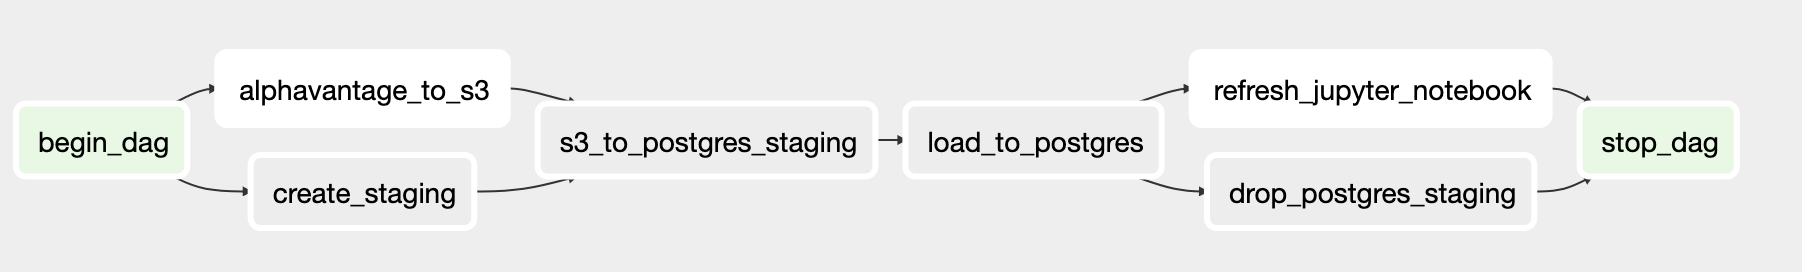
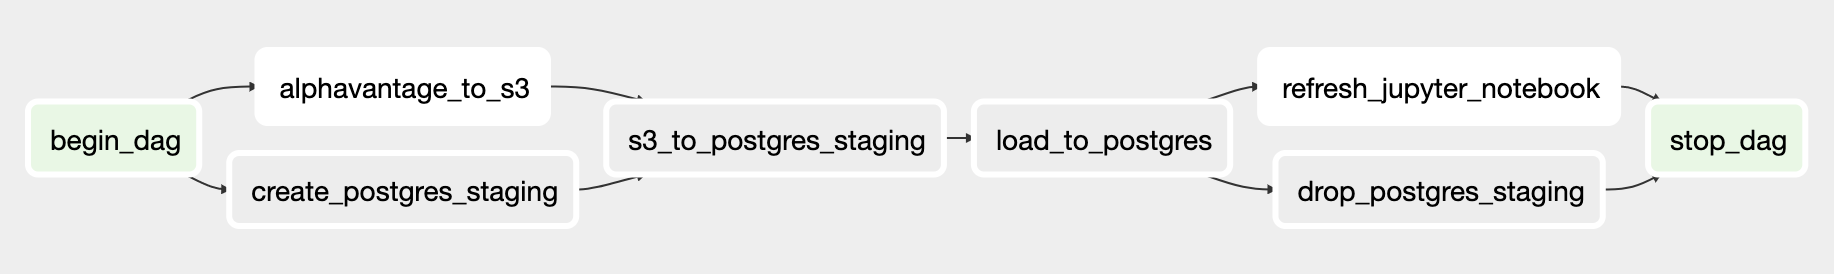
update name of create staging step

diff --git a/dags/fx_tracker/daily_exchange_rates.py b/dags/fx_tracker/daily_exchange_rates.py
@@ -55,7 +55,7 @@ alphavantage_to_s3 = AlphavantageToS3Operator(
 
 # create empty staging table to load data into
 create_postgres_staging = PostgresOperator(
-    task_id='create_staging',
+    task_id='create_postgres_staging',
     sql='sql/staging/daily_exchange_rates.table.sql',
     dag=dag
 )

diff --git a/README.md b/README.md
@@ -7,7 +7,7 @@ A pipeline for exchange rate data built with Airflow, S3, Postgres, Jupyter and 
 
 This is a sandbox project to set up an environment with Airflow and Docker in order to schedule and monitor pipelines.
 
-To demonstrate the environment, it is used to fetch daily exchange rate data from an external API (Alpha Vantage), load into a S3 bucket, load into Postgres including a staging step, then refresh a (currently dummy) Jupyter notebook
+To demonstrate the environment, it is used to fetch daily exchange rate data from an external API (Alpha Vantage), load into S3, load into Postgres including a staging step, then refresh a (currently dummy) Jupyter notebook
 
 ![dag_chart](dags/fx_tracker/dag_image.png)
 
@@ -23,7 +23,7 @@ To demonstrate the environment, it is used to fetch daily exchange rate data fro
 
 ## Prerequisites
 To run this locally, you would need a few things:
-* Docker
+* Docker installed
 * S3 bucket and access details
 * API key for Alpha Vantage [API](https://www.alphavantage.co/support/#api-key) (free)
 
